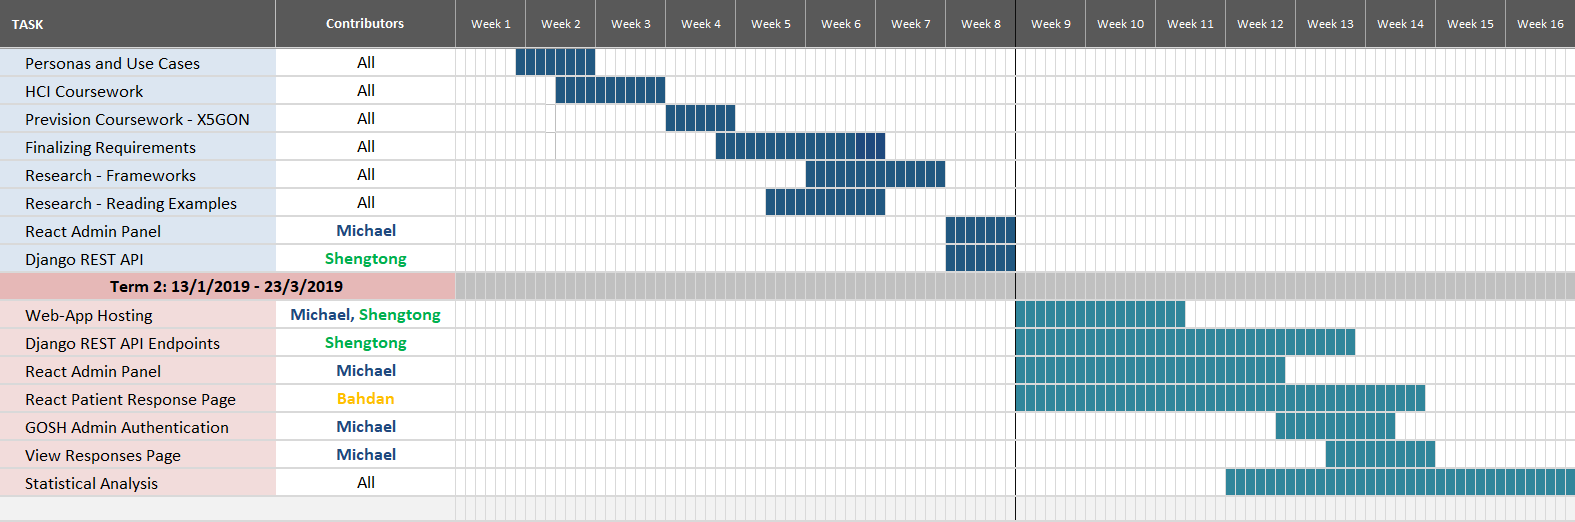
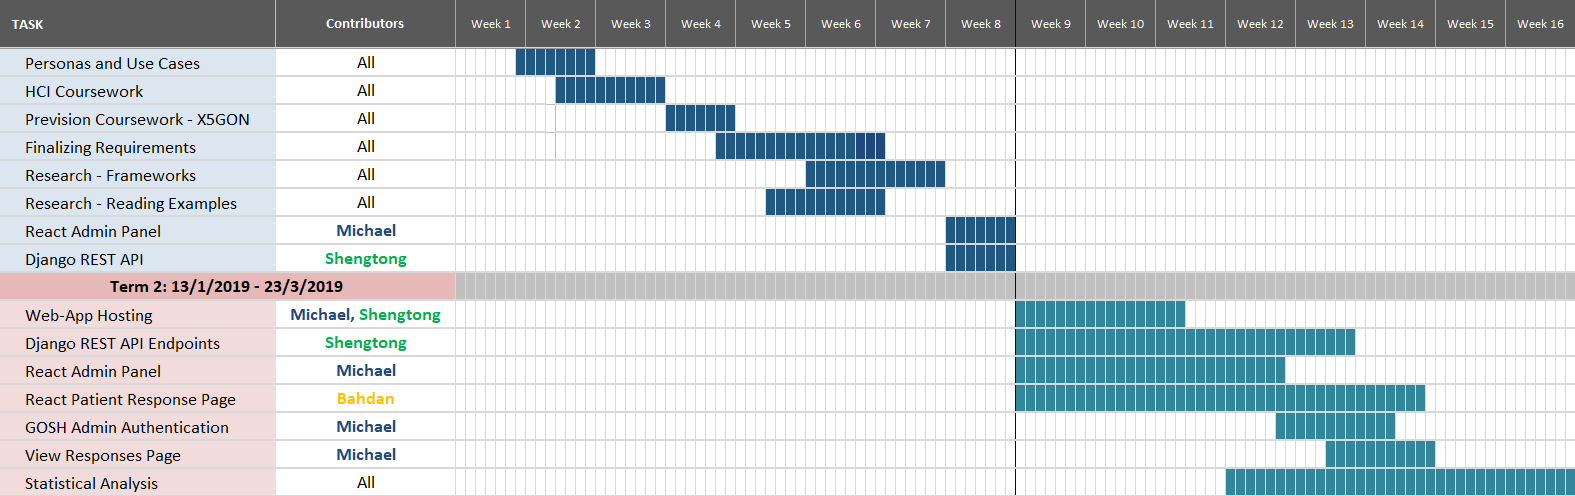
images, deployment manual

diff --git a/index.html b/index.html
@@ -741,8 +741,8 @@
 									<li class="wow fadeInUp"  style="width: 100%" data-wow-duration="1.2s">
 										<div class="inner_list">
 											<div class="image_wrap">
-												<img class="small" src="img/new/systemarhitecture.png" alt=""height="650" width="100%"/>
-												<img class="big" src="img/new/systemarhitecture.png" alt=""/>
+												<img class="small" src="img/new/systemarchitecture.png" alt=""height="550" width="100%"/>
+												<img class="big" src="img/new/systemarchitecture.png" alt=""/>
 												<div class="definitions_wrap">
 													<div class="date_wrap">
 													</div>
@@ -864,7 +864,7 @@
 									<p>Shown below are the implementation of finished functionalities of Hospital Surveys, along with some code snippets and explanations of how we implemented these functionalities. 
 										Key functionalities are <b>bolded</b>.<p><br><hr><br>
 										
-									<h3>React Front-End</h3><br>
+									<h4>React Front-End</h4><br>
 
 									<p>
 										React.js is used as the front-end web framework for the <b>user interface</b> of our web-app, and is used to create all components
@@ -979,10 +979,10 @@
 										</ul>
 									</div>
 									<hr><br>
-									<h3 style="padding-bottom: 15px;">Django Back-End</h3>
+									<h4 style="padding-bottom: 15px;">Django Back-End</h4>
 									<p>
 										Django was used as the back-end server, following the Django boiler template. Django rest framework is used as to create a REST API back-end,
-										 which is used by the front-end through HTTP requests, providing and exchanging the data that it needs to be displayed in the UI.
+										 which is used by the front-end through HTTP requests, providing and exchanging the data that needs to be displayed in the front-end UI.
 										 Data from the Django Models are stored in Heroku Postgres database, as shown and configured in the settings.py file.
 									</p><br>
 
@@ -1019,11 +1019,11 @@
 									</div>
 									
 									<hr><br>
-									<h3 style="padding-bottom: 15px;">User <b>Authentication</b></h3>
+									<h4 style="padding-bottom: 15px;">User <b>Authentication</b></h4>
 									<p>
 										Django's rest-auth library was used to generate a token for the front-end UI when users sign in. React Redux then stores this token 
-										for 60 minutes, along with its state in the browser. This creates a session that lasts for 60 minutes, for users that have signed in,
-										and allows users to navigate to any web page requiring <b>authentication</b> during that time without signing in again.
+										for 60 minutes, along with its state in the browser. This creates a session that lasts for 60 minutes for users that have signed in
+										with the Django Admin credentials, and allows users to navigate to any web page requiring <b>authentication</b> during that time without signing in again.
 									</p><br>
 
 									<div class="arlo_tm_list_wrap blog_list">
@@ -1059,7 +1059,7 @@
 									<br><br>
 
 									<hr><br>
-									<h3 style="padding-bottom: 15px;">Web-App Hosting</h3>
+									<h4 style="padding-bottom: 15px;">Web-App Hosting</h4>
 									<p>
 										The web-app is hosted and deployed on <b>Heroku</b>, as a Python app, rendering its content through a JavaScript front-end. This was done 
 										by specfying a Procfile, requirements.txt, and changing various Django settings in settings.py. This is done to specify the versions of used frameworks,
@@ -1173,16 +1173,39 @@
 
 							<div class="inner_wrap">
 								<div class="total">
+									<h3 style="padding-bottom: 15px;">Testing Strategy</h3>
+									<h5 style="padding-bottom: 10px;">We used multiples strategies when testing our software:</h5>
+										<ol style="padding-left: 20px;">
+											<li style="padding-bottom: 10px;"><b>Testing Often:</b><br>
+												We made sure to always test our web-app frequently, to ensure that all functionalities are working
+												normally at all times. 
+											</li>
+
+											<li style="padding-bottom: 10px;"><b>Regression Testing:</b><br>
+												When adding new functionalities, we always made sure that these new funcionalities did not break
+												any existing functionalities.
+											</li>
+											<li style="padding-bottom: 10px;"><b>Leaving Time for Fixing:</b><br>
+												Before testing our functionalities, we also made sure that there was enough time for us to 
+												fix any broken code or functionalities after the testing process.
+											</li>
+										</ol>
+								</div>
+								<br><hr><br>
+							</div>
+
+							<div class="inner_wrap">
+								<div class="total">
 									<h3 style="padding-bottom: 15px;">Responsive Web Design Testing</h3>
-									<p>Since our web-app allows child patients to answer questionnaires from tablets and 
-										mobile devices, our UI designs had to be tested to be responsive. 
+									<p>Since our web-app allows child patients to answer questionnaires from <b>tablets and 
+										mobile devices</b>, our UI designs had to be tested to be responsive. 
 										The UI design frameworks we used (React Bootstrap / Ant Design) were very helpful here as 
 										their page grid system and responsive components could be used.<br><br>
 										In order to test for responsive web designs, we used multiple tools such as Google Chrome’s
-										 responsive element checker (screenshots below), which would allow us to review the look of 
+										 <B>responsive element checker</B> (screenshots below), which would allow us to review the look of 
 										 the web page on any window size. We also used multiple checking websites such as 
-										 <a href="https://responsivedesignchecker.com/">Responsive Design Checker</a> and 
-										 <a href="http://ami.responsivedesign.is/">Am I Responsive</a> to further review the web app design on different devices.
+										 <a href="https://responsivedesignchecker.com/"><b>Responsive Design Checker</b></a> and 
+										 <a href="http://ami.responsivedesign.is/"><b>Am I Responsive</b></a> to further review the web app design on different devices.
 									</p>
 								</div>
 								<br><br>
@@ -1251,8 +1274,9 @@
 								<div class="total">
 									<h2 style="margin-bottom: 10px;">K-Means Clustering</h2>
 									For the statistical analysis part of our web-app, we decided to implement a basic and common unsupervised 
-									<b>Machine Learning algorithm - K-Means Clustering</b>. This algorithms is used to analyze the <b>age of the survey respondents</b>
-									and acts as a way to classify groups and patterns of the age of respondents. <br>&nbsp;<br>&nbsp;
+									<b>Machine Learning algorithm - K-Means Clustering</b>. This algorithms is used to analyze the age of the survey respondents
+									by classifying and grouping respondent ages based on clustering patterns. Each group represents an (clustered) <b>estimated age group of survey respondents</b> 
+									grouped by the algorithm.<br>&nbsp;<br>&nbsp;
 
 									<h4 style="margin-bottom: 10px;">Experiment Setup:</h4>
 									Since we were not provided with a specific dataset by our clients, we had to manually fill in the survey forms
@@ -1262,15 +1286,21 @@
 									However, due to shortage of time, we were only able to use this algorithm for uni-dimensional data (age).<br>&nbsp;<br>&nbsp;
 
 									<h4 style="margin-bottom: 10px;">Experiment Results:</h4>
-									When implementing this algorithm, we had to choose the number of clusters (groups), <b>k</b>, to classify the data into. This value 
-									is the Hyperparameter of this algorithm. Shown below are the results of different values of k, ranging from values 2-4:<br>&nbsp;<br>&nbsp;
+									When implementing this algorithm, we had to choose the number of clusters (groups), <b>k</b>, to classify the data into. 
+									This value is the Hyperparameter of this algorithm. Shown below are the results of different values of k, ranging from values 2-4:<br>&nbsp;
+
+									<div style="display: flex; flex-wrap: wrap; align-items: center; justify-content: center; padding: 0 0 35px 0;">
+										<img src=img/new/graphs/2Cluster.png width="32%" style="padding: 0 5px 0 5px"><br>&nbsp;
+										<img src=img/new/graphs/3Cluster.png  width="32%" style="padding: 0 5px 0 5px"><br>&nbsp;
+										<img src=img/new/graphs/4Cluster.png width="32%" style="padding: 0 5px 0 5px"><br>&nbsp;
+									</div>
 									
 									<h4 style="margin-bottom: 10px;">Discussion / Conclusions:</h4>
-									The algorithm seems to perform the best when clustering our data into <b>2</b> clusters (younger and older patients), which may be the optimal number in our case.
-									This may be due to our small sample size, as larger values of <b>k</b> may force the algorithm to cluster data with more 
+									The algorithm seems to perform the best when clustering our data into <b>2</b> clusters <b>(younger and older patients)</b>, which may be the optimal number in our case.
+									This may be due to our small sample size, as larger values of k may force the algorithm to cluster data with more 
 									uncertainty. Also, the algorithm <b>fails when the sample size is lower than k</b> (the number of clusters), which occurs when there are very fewe
-									responses to the surveys. Hence, in order to improve the performance of this algorithm, or use larger values of <b>k</b>, the most direct
-									solution is to provide a larger sample size.
+									responses to the surveys. Hence, in order to improve the performance of this algorithm or use larger values of k, the most direct
+									solution is to <b>provide a larger sample size</b>.
 
 								</div>
 								<br><br>
@@ -1289,13 +1319,14 @@
 								<h3>Evaluation</h3>
 								<span>Summary of Achievements / Project Evaluation</span>
 							</div>
+							
 							<div class="arlo_tm_list_wrap blog_list">
 								<ul class="total">
-									<li class="wow fadeInUp" data-wow-duration="1.2s">
+									<li class="wow fadeInUp" data-wow-duration="1.2s" style="width: 100%">
 										<div class="inner_list">
-											<div class="image_wrap">
-												<img class="small" src="img/new/achievement.png" alt=""height="600" width="1200"/>
-												<img class="big" src="img/new/achievement.png" alt=""/>
+											<div class="image_wrap" >
+												<img class="small" src="img/new/evaluation/achievement.png" alt=""height="600" width="100%"/>
+												<img class="big" src="img/new/evaluation/achievement.png" alt=""/>
 												<div class="definitions_wrap">
 													<div class="date_wrap">
 													</div>
@@ -1306,11 +1337,16 @@
 											</div>
 										</div>
 									</li>
-									<li class="wow fadeInUp" data-wow-duration="1.2s" data-wow-delay="0.2s">
+								</ul>
+							</div>
+							<br>&nbsp;
+							<div class="arlo_tm_list_wrap blog_list">
+								<ul class="total">
+									<li class="wow fadeInUp" data-wow-duration="1.2s" style="width: 100%">
 										<div class="inner_list">
-											<div class="image_wrap">
-												<img class="small" src="img/new/contribution.png" alt="" height="600" width="1300"/>
-												<img class="big" src="img/new/contribution.png" alt="" />
+											<div class="image_wrap" >
+												<img class="small" src="img/new/evaluation/contribution.png" alt=""height="600" width="100%"/>
+												<img class="big" src="img/new/evaluation/contribution.png" alt=""/>
 												<div class="definitions_wrap">
 													<div class="date_wrap">
 													</div>
@@ -1324,7 +1360,6 @@
 								</ul>
 							</div>
 							<br>&nbsp;<hr><br>
-
 							<div class="arlo_tm_about_wrap">
 								<h3>Project Evaluation</h3><br>
 								<div class="author_wrap">
@@ -1487,23 +1522,67 @@
 										<span>User Manuals, Bi-Weekly Reports</span>
 									</div>
 
-									<h3>User manual:</h3><br>
-									<b>To access the web-app,</b> go to<br><a href="https://djreact-surveys.herokuapp.com/">https://djreact-surveys.herokuapp.com/</a><br><br>
-									<b>To access the Django back-end Admin,</b> go to<br> <a href="https://djreact-surveys.herokuapp.com/admin/">https://djreact-surveys.herokuapp.com/admin/</a><br>
-									Admin username: admin<br>
-									Admin password: admin<br>
-									<br><br>
-									<h3>Deployment manual:</h3><br>
-									<b>React Front-End:</b><br>
-									To run: Install npm, then change directory to /hospital-surveys. Then run the command: ‘npm start’.<br>
-									<b>Django Back-End:</b><br>
-									To run: Run the command ‘python manage.py runserver’.<br>
-									<b>Deployment on Heroku:</b><br>
-									To deploy on heroku, 'git pull' from the heroku project name, then 'git add.', then 'git push heroku master'
+									<h3>User Manual:</h3><br>
+									<h5 style="padding-bottom: 10px;">Accessing the Web-App:</h5>
+									<p style="padding-bottom: 10px;">To access the web-app, go to <b><i><a href="https://hospital-surveys-dev.herokuapp.com/">https://hospital-surveys-dev.herokuapp.com/</a></i></b><br>
+									In order to manage questionanires in the admin panel (/manage), it is required to log in to the web-app.<br></p>
+									<b>
+										Admin Panel Username: team17<br>
+										Admin Panel Password: team17<br>
+									</b>
+									<br><hr><br>
+									<h3>Deployment Manual (Heroku):</h3><br>
+									<h5 style="padding-bottom: 10px;">Installation Pre-Requisites:</h5>
+									<ol style="padding-left: 20px;">
+										<li>Heroku <a href="https://devcenter.heroku.com/articles/heroku-cli">Command Line Interpreter (CLI)</a></li>
+										<li><a href="https://www.heroku.com">Heroku</a> Account</li>
+										<li><a href="https://git-scm.com/">Git</a></li>
+									</ol><br>
+
+									<h5 style="padding-bottom: 10px;">Deployment Guide:</h5>
+									<ol style="padding-left: 20px;">
+										<li >Download the code from <a href="https://github.com/michaellmy/hospital-surveys-dev">this</a> repository, by downloading the zip file, or running the command:</li>
+										<div id="shell_box">
+											<p><i>$ git clone https://github.com/michaellmy/hospital-surveys-dev.git</i></p>
+										</div>
+
+										<li>Create a new Heroku project (free), then navigate into the directory containing manage.py.</li>
+										<div id="shell_box">
+											<p><i>$ cd hospital-surveys-dev</i></p>
+										</div>
+
+										<li>Log into the Heroku CLI, then initialize a git repository in a new or existing directory. 
+											These few instructions can also be found in Heroku's project dashboard.
+										</li>
+										
+
+										<div id="shell_box">
+											<p><i>$ heroku login</i></p>
+											<p><i>$ git init</i></p>
+											<p><i>$ heroku git:remote -a [heroku-project-name]</i></p>
+										</div>
+										
+										<li>Deploy the application.
+										</li>
+										<div id="shell_box" >
+											<p><i>$ git add .</i></p>
+											<p><i>$ git commit -m "Initial commit message"</i></p>
+											<p><i>$ git push heroku master</i></p>
+										</div>
+										
+										<li>Create a new superuser, and enter the credentails when prompted. These credentials will be used to log in to the admin panel.</li>
+										<div id="shell_box">
+											<p><i>$ heroku run python manage.py createsuperuser</i></p>
+										</div>
+
+										The web app can now be found at <b>https://[heroku-project-name].herokuapp.com</b>. A postgres database will be attached to the web-app during deployment, 
+											and the credentials for the database can be found under the <b>Heroku Project -> Resources -> Add-ons -> Heroku Postgres -> Settings -> View Credentials</b>. 
+									</ol>
+									
 								</div><br><br><hr><br>&nbsp;
 
 
-								<h3 style="padding-bottom: 30px;">Project Management - Gantt Chart</h3>
+								<h3 style="padding-bottom: 30px;">Gantt Chart</h3>
 								<div class="arlo_tm_section" >
 									<div class="arlo_tm_news_wrap" style="padding: 0px;">
 										<div class="container" style="padding: 0px;">
@@ -1512,7 +1591,7 @@
 													<li class="wow fadeInUp" style="width: 100%" data-wow-duration="1.2s" data-wow-delay="0.2s">
 														<div class="inner_list">
 															<div class="image_wrap">
-																<img class="small" src="img/new/Gantt.png" alt="" height="520" width="1300"/>
+																<img class="small" src="img/new/Gantt.png" alt="" height="400" width="1300"/>
 																<img class="big" src="img/new/Gantt.png" alt="" />
 																<div class="definitions_wrap" style="background-color: #dae4f1;">
 																	<div class="title_holder">
@@ -1549,51 +1628,10 @@
 						</div>
 					</div>
 				</div>
-	
+				<!-- /APPENDICES -->
 
-				<!-- Bi-WEEKLY REPORTS
-				<div class="arlo_tm_section" id="reports">
-					<div class="arlo_tm_news_wrap">
-						<div class="container">
-							<div class="arlo_tm_title_holder news">
-							<	<h3>BI-WEEKLY REPORTS</h3>
-								<span>Bi-weekly reports keeping track of our progress.</span></div>
-							<a href="reports/report2.pdf">Report 2</a>
-							<div class="arlo_tm_list_wrap blog_list">
-								<ul class="total">
-									<li class="wow fadeInUp" style="width: 100%" data-wow-duration="1.2s">
-										<div class="inner_list">
-											<div class="image_wrap">
-												<img class="small" src="img/new/image18.png" alt=""height="791" width="800"/>
-												<img class="big" src="img/new/image18.png" alt=""/>
-												<div class="definitions_wrap">
-													<div class="date_wrap">
-													</div>
-												</div>
-											</div>
-										</div>
-									</li>
-									<li class="wow fadeInUp" style="width: 100%" data-wow-duration="1.2s" data-wow-delay="0.2s">
-										<div class="inner_list">
-											<div class="image_wrap">
-												<img class="small" src="img/new/image20.png" alt="" height="1800" width="800"/>
-												<img class="big" src="img/new/image20.png" alt="" />
-												<div class="definitions_wrap">
-													<div class="date_wrap">
-													</div>
-												</div>
-											</div>
-										<div>
-									</li>
-								</ul>
-							</div>
-						</div>
-					</div>
-				</div>
-				/BI-WEEKLY REPORTS -->
 			</div>
 		</div>
-		<!-- /APPENDICES -->
 		<a class="arlo_tm_totop" href="#"></a> 
 	</div>
 </div>

diff --git a/css/style.css b/css/style.css
@@ -92,6 +92,13 @@
 
 }
 
+#shell_box {
+	padding: 10px 0 10px 15px; 
+	margin-bottom: 15px; 
+	background-color: #e6e6e6;
+	border-radius: 15px
+}
+
 /*	01) ARLO BASE
 /*---------------------------------------------------*/
 html {
